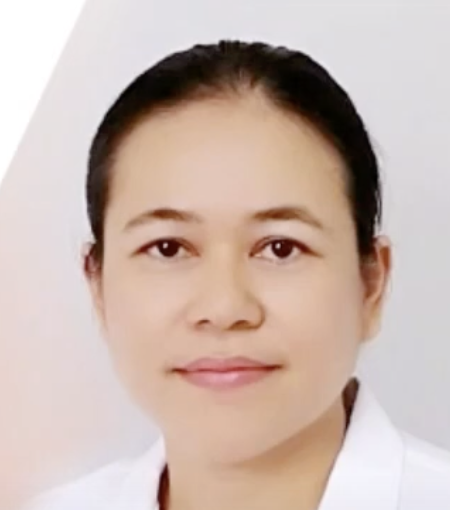
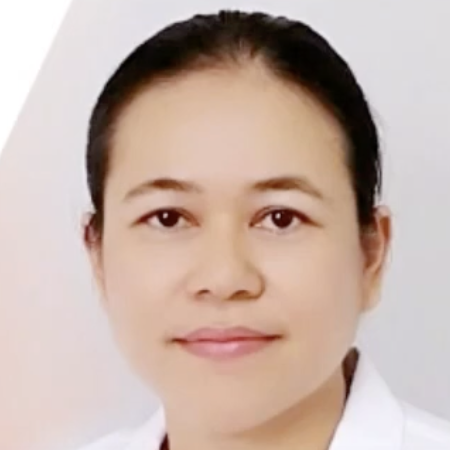
Update with path, unoptimized and resizing image

diff --git a/app/speakers/page.js b/app/speakers/page.js
@@ -4,15 +4,33 @@ import Speaker from '@/src/Speaker'
 import ModalSpeaker from '@/src/CVModal'
 import { useState } from 'react'
 
+//Import Speaker's photo individually
+import ApisanPhoto from '/public/speakers/apisan.png'
+import SupatraPhoto from '/public/speakers/supatra.png'
+import VeerasakPhoto from '/public/speakers/veerasak.png'
+import KrisanaPhoto from '/public/speakers/krisana.png'
+import OrawanPhoto from '/public/speakers/orawan.png'
+import KraisornPhoto from '/public/speakers/kraisorn.png'
+import ThammasinPhoto from '/public/speakers/thammasin.png'
+import KritPhoto from '/public/speakers/krit.png'
+import NarongwitPhoto from '/public/speakers/narongwit.png'
+import KiratiPhoto from '/public/speakers/kirati.png'
+import PhungeunPhoto from '/public/speakers/phungeun.png'
+import NoppornPhoto from '/public/speakers/nopporn.png'
+import HathaitipPhoto from '/public/speakers/hathaitip.png'
+import KaninPhoto from '/public/speakers/kanin.png'
+import WasinPhoto from '/public/speakers/wasin.png'
+import NisachonPhoto from '/public/speakers/nisachon.jpg'
+
 const speakers = [
     {
-        photo:'/speakers/apisan.png',
+        photo: ApisanPhoto,
         name:'นพ.อภิสรรค์ บุญประดับ',
         position:'ผู้อำนวยการ กองปฐมภูมิ',
         description:['Innovative Approaches in Primary Care: Global Persepctives and Local Solutions']
     },
     {
-        photo:'/speakers/supatra.png',
+        photo: SupatraPhoto,
         name:'พญ.สุพัตรา ศรีวณิชชากร',
         position:'ประธานราชวิทยาลัยแพทย์เวชศาสตร์ครอบครัวประเทศไทย',
         description:['Innovative Approaches in Primary Care: Global Persepctives and Local Solutions']
@@ -28,19 +46,19 @@ const speakers = [
         description:['Innovative Approaches in Primary Care: Global Persepctives and Local Solutions']
     },
     {
-        photo:'/speakers/veerasak.png',
+        photo:VeerasakPhoto,
         name:'ศ.นพ.วีรศักดิ์ เมืองไพศาล',
         position:'อาจารย์คณะแพทยศาสตร์ศิริราชพยาบาล',
         description:['Addressing Geriatric Syndromes in Primary Care: Strategies for Comprehensive Management', 'Enhancing Care with Comprehensive Geriatric Assessment: A Multidisciplinary Approach']
     },
     {
-        photo:'/speakers/krisana.png',
+        photo: KrisanaPhoto,
         name:'รศ.นพ.กฤษณะ สุวรรณภูมิ',
         position:'อาจารย์คณะแพทยศาสตร์ มหาวิทยาลัยสงขลานครินทร์',
         description:['QI in Primary Care and Research competition', 'Digital Health Revolution: AI Integration in Primary Care for Global Challenges']
     },
     {
-        photo:'/speakers/orawan.png',
+        photo: OrawanPhoto,
         name:'พญ.อรวรรณ ตะเวทิพงศ์',
         position:'ผู้อำนวยการ รพ.เขาย้อย',
         description:['Empowering Primary Care: The Bedrock of Resilient Health Systems']
@@ -70,7 +88,7 @@ const speakers = [
         description:['การขับเคลื่อนระบบการจัดการโรคเรื้อรังระดับอำเภอ: จากแนวคิดสู่การเปลี่ยนแปลงและการส่งเสริมป้องกันโรคเรื้อรังในระดับปฐมภูมิ NCD preventionservice in primary care']
     },
     {
-        photo:'/speakers/kraisorn.png',
+        photo: KraisornPhoto,
         name:'นพ.ไกรสร โตทับเที่ยง',
         position:'ผู้อำนวยการกองวัณโรค กรมควบคุมโรค',
         description:['Discussion: From Cells to Communities : A Holistic Approach to Global Prison Health and Primary Care Solutions']
@@ -82,26 +100,26 @@ const speakers = [
         description:['Discussion: From Cells to Communities : A Holistic Approach to Global Prison Health and Primary Care Solutions']
     },
     {
-        photo:'/speakers/thammasin.png',
+        photo: ThammasinPhoto,
         name:'ผศ.ดร.นพ.ธรรมสินธ์ อิงวิยะ',
         position:'ผู้ช่วยคณบดีฝ่ายวิเคราะห์ข้อมูล และนวัตกรรมดิจิตอล คณะแพทยศาสตร์ มหาวิทยาลัยสงขลานครินทร์',
         description:['Unveiling the Health Impacts of Global Warming: Evidence and Insights']
     },
     {
-        photo:'/speakers/krit.png',
+        photo: KritPhoto,
         name:'ดร.กฤต จารุพานิช',
         position:'ชีวเวชศาสตร์และวิศวกรรมชีวการแพทย์ คณะแพทยศาสตร์ มหาวิทยาลัยสงขลานครินทร์',
         description:['Digital Health Revolution: AI Integration in Primary Care for Global Challenges'],
         degree:["B.S. in Physics(1's Class honor)", 'M.S. in Material Science and Engineering', 'M.S. in Biomedical Engineering', 'Ph.D. in Biomedical Engineering']
     },
     {
-        photo:'/speakers/narongwit.png',
+        photo: NarongwitPhoto,
         name:'รศ.นพ.ณรงค์วิทย์ นาขวัญ',
         position:'นายแพทย์ชำนาญการพิเศษ กลุ่มงานอายุรกรรม โรงพยาบาลหาดใหญ่',
         description:['Asthma Management in Primary Care: Guidelines and Best Practices']
     },
     {
-        photo:'/speakers/kirati.png',
+        photo: KiratiPhoto,
         name:'ผศ.พญ.กีรติ อัครปฏิมา',
         position:'นายแพทย์ชำนาญการ กลุ่มงานอายุรกรรม โรงพยาบาลหาดใหญ่',
         description:['Constipation Management in Primary Care: A Comprehensive Approach and Case-Based Strategies']
@@ -113,19 +131,19 @@ const speakers = [
         description:['Parenting in Digital World']
     },
     {
-        photo:'/speakers/phungeun.png',
+        photo: PhungeunPhoto,
         name:'ดร.พญ.ภูเงิน คงทอง',
         position:'ผู้อำนวยการศูนย์มะเร็ง รพ.หาดใหญ่-นาหม่อม',
         description:['Cancer Prevention Strategies: Empowering Health Through Awareness and Action']
     },
     {
-        photo:'/speakers/nopporn.png',
+        photo: NoppornPhoto,
         name:'นพ.นพพร ส่งอำไพ',
         position:'นายแพทย์ชำนาญการ กลุ่มงานอายุรกรรม รพ.หาดใหญ่',
         description:['Essential Adult Vaccines: Protecting Health Across the Lifespan']
     },
     {
-        photo:'/speakers/hathaitip.png',
+        photo: HathaitipPhoto,
         name:'พญ.หทัยทิพย์ ธรรมวิริยะกุล',
         position:'นายแพทย์ชำนาญการพิเศษ กลุ่มงานเวชกรรมสังคม รพ.หาดใหญ่',
         description:['Innovative Approaches in Primary Care: Global Persepctives and Local Solutions', 'Unveiling the Health Impacts of Global Warming: Evidence and Insights', 'Parenting in Digital World']
@@ -137,7 +155,7 @@ const speakers = [
         description:['QI in Primary Care and Research competition', 'Essential Adult Vaccines: Protecting Health Across the Lifespan']
     },
     {
-        photo:'/speakers/kanin.png',
+        photo: KaninPhoto,
         name:'นพ.คณิน ล่องเซ่ง',
         position:'นายแพทย์ชำนาญการ กลุ่มงานเวชกรรมสังคม รพ.หาดใหญ่',
         description:['Smooth Transitions: Enhancing Palliative Care Continuity from Hospital to Home and Community', 'Workshop: Syringe driver and Palliative devices']
@@ -149,7 +167,7 @@ const speakers = [
         description:['Workshop: Syringe driver and Palliative devices']
     },
     {
-        photo:'/speakers/wasin.png',
+        photo: WasinPhoto,
         name:'นพ.วศิน คัมภีระ',
         position:'นายแพทย์ชำนาญการพิเศษ กลุ่มงานเวชกรรมสังคม รพ.หาดใหญ่',
         description:['Digital Health Revolution: AI Integration in Primary Care for Global Challenges'],
@@ -162,7 +180,7 @@ const speakers = [
         description:['Constipation Management in Primary Care: A Comprehensive Approach and Case-Based Strategies']
     },
     {
-        photo:'/speakers/nisachon.jpg',
+        photo: NisachonPhoto,
         name:'พญ.นิศาชล ทองคำ',
         position:'นายแพทย์ชำนาญการ กลุ่มงานเวชกรรมสังคม รพ.หาดใหญ่',
         description:['Addressing Geriatric Syndromes in Primary Care: Strategies for Comprehensive Management', 'Enhancing Care with Comprehensive Geriatric Assessment: A Multidisciplinary Approach']

diff --git a/app/page.js b/app/page.js
@@ -5,6 +5,10 @@ import MainContent from "@/src/MainContent"
 import Speaker from "@/src/Speaker"
 import Contact from "@/src/Contact"
 
+//Import Speaker's photo individually
+import ApisanPhoto from '/public/speakers/apisan.png'
+import SupatraPhoto from '/public/speakers/supatra.png'
+
 export default function Home() {
   return (
     <>
@@ -23,8 +27,8 @@ export default function Home() {
             </div>
             <div className="w-full xl:w-4/12 2xl:w-3/12 p-4">
               <div className="flex flex-wrap gap-2 sm:gap-4">
-              <Speaker photo='/speakers/apisan.png' name='นพ.อภิสรรค์ บุญประดับ' position='ผู้อำนวยการ กองปฐมภูมิ' description={['Innovative Approaches in Primary Care: Global Persepctives and Local Solutions']}/>
-              <Speaker photo='/speakers/supatra.png' name='พญ.สุพัตรา ศรีวณิชชากร' position='ประธานราชวิทยาลัยแพทย์เวชศาสตร์ครอบครัวประเทศไทย' description={['Innovative Approaches in Primary Care: Global Persepctives and Local Solutions']}/>
+              <Speaker photo={ApisanPhoto} name='นพ.อภิสรรค์ บุญประดับ' position='ผู้อำนวยการ กองปฐมภูมิ' description={['Innovative Approaches in Primary Care: Global Persepctives and Local Solutions']}/>
+              <Speaker photo={SupatraPhoto} name='พญ.สุพัตรา ศรีวณิชชากร' position='ประธานราชวิทยาลัยแพทย์เวชศาสตร์ครอบครัวประเทศไทย' description={['Innovative Approaches in Primary Care: Global Persepctives and Local Solutions']}/>
               </div>
             </div>
           </div>

diff --git a/src/MainContent.js b/src/MainContent.js
@@ -12,14 +12,14 @@ export default function MainContent() {
             <p className='text-black-1000 text-3xl xl:text-4xl 2xl:text-6xl mt-5'>&quot;Health Horizons: Bridging Global Health with Local Solutions in Primary Care&quot;</p>
             <p className='text-gray-800 text-2xl xl:text-3xl 2xl:text-4xl mt-2'>งานประชุมวิชาการประจำปี 2567 กลุ่มงานเวชกรรมสังคม โรงพยาบาลหาดใหญ่</p>
             <div className='mt-5 flex justify-center'>
-              <Image className='border border-black' src={MainPoster} alt='Poster' style={{ width: '75%' }}/>
+              <Image className='border border-black' src={MainPoster} alt='Poster' style={{ width: '75%' }} unoptimized/>
             </div>
             <div className='mt-5'>
               <Link href={'/registration'} className='text-gray-500 text-lg font-bold xl:text-xl 2xl:text-2xl hover:underline'>คลิกลงทะเบียนร่วมงาน</Link>
             </div>
             <p className='text-gray-800 text-xl font-bold xl:text-2xl 2xl:text-3xl mt-5'>Calling for Abstract</p>
             <div className='mt-5 flex justify-center'>
-              <Image className='border border-black' src={AbstractPoster} alt='Abstract Poster' style={{ width: '75%' }}/>
+              <Image className='border border-black' src={AbstractPoster} alt='Abstract Poster' style={{ width: '75%' }} unoptimized/>
             </div>
             <div className='mt-5'>
               <Link href={'/abstracts'} className='text-gray-500 text-lg font-bold xl:text-xl 2xl:text-2xl hover:underline'>ร่วมส่งผลงาน</Link>
